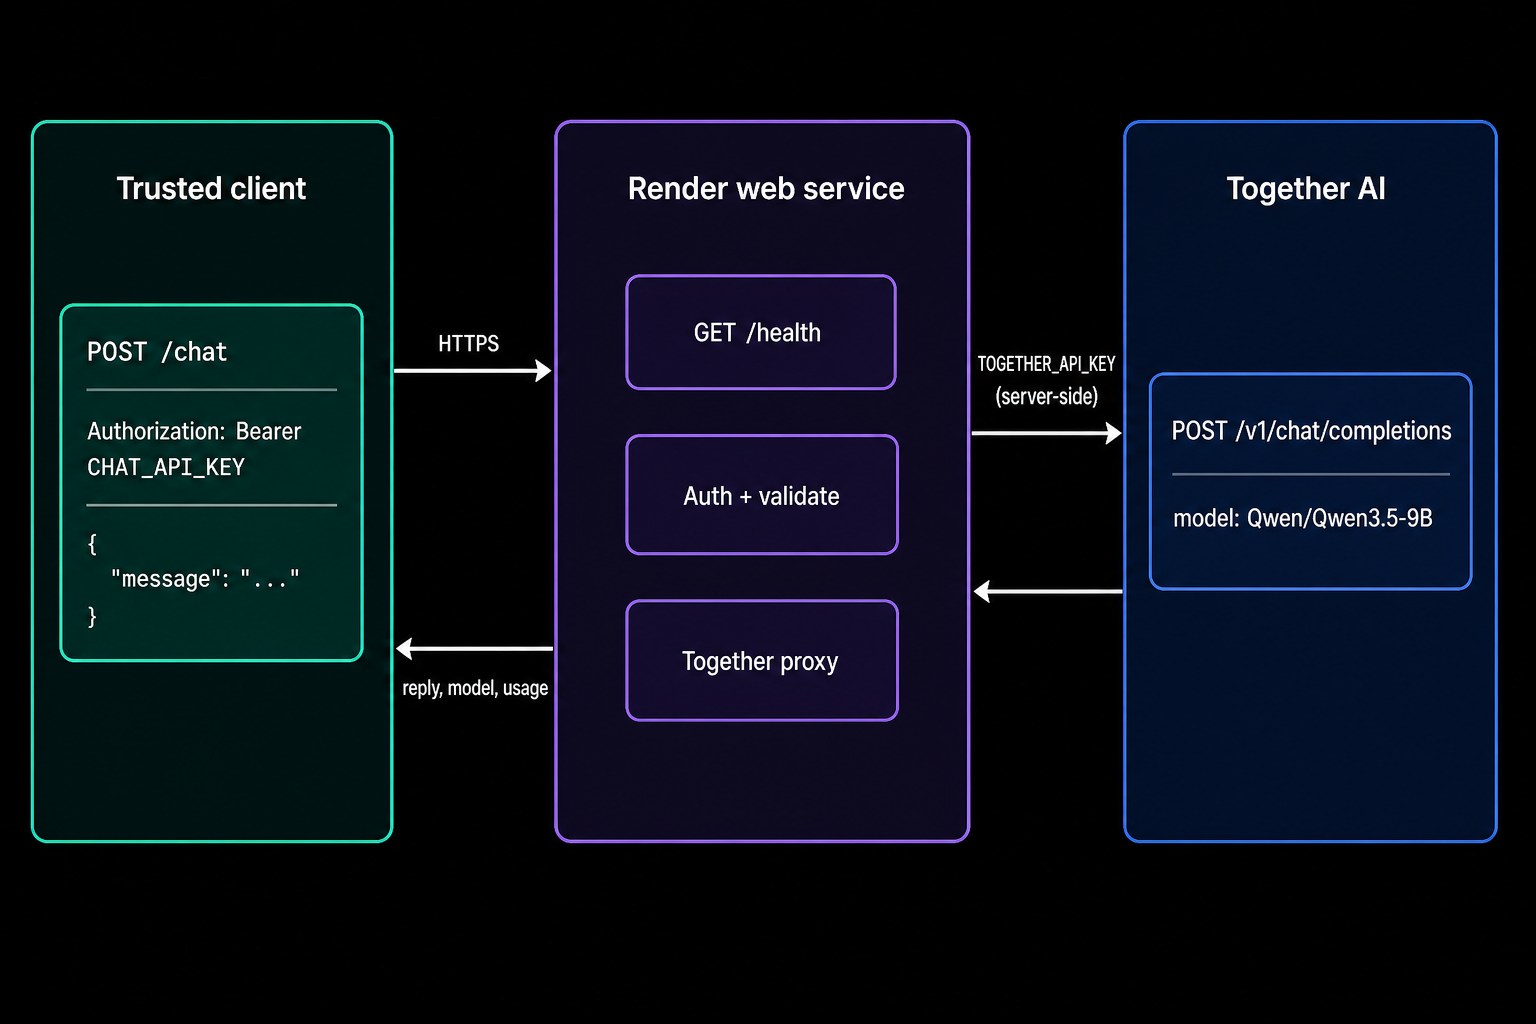
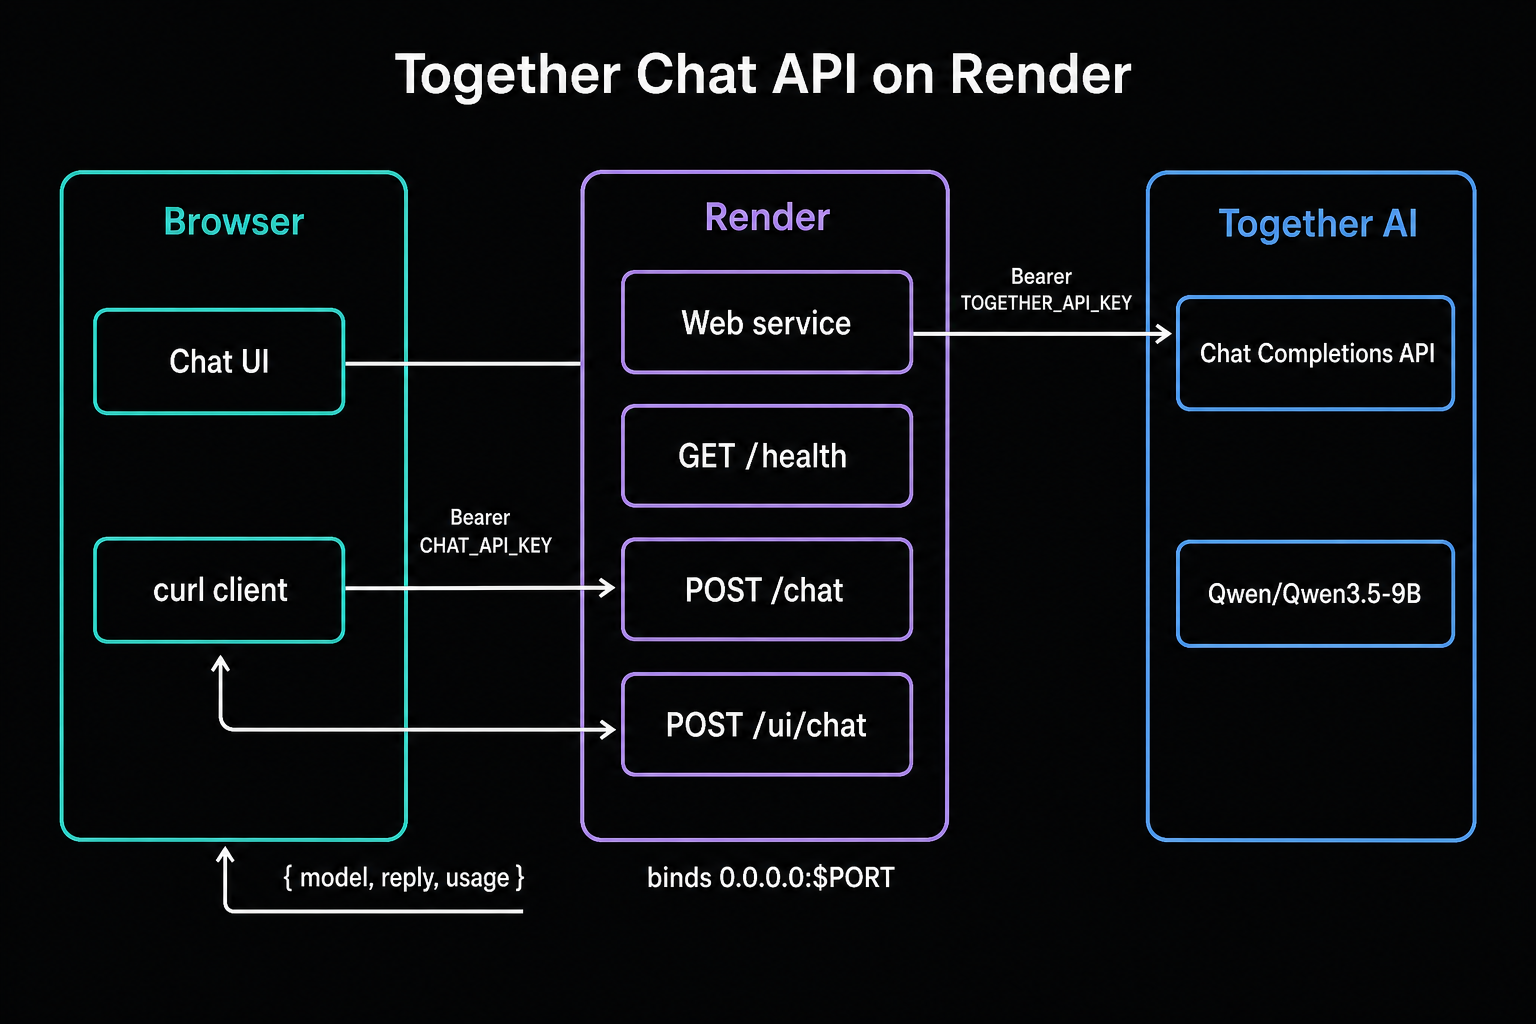
Rewrite the README to match the LlamaIndex demo hub layout.

diff --git a/README.md b/README.md
@@ -1,8 +1,8 @@
 <div align="center">
 
-# Together chat API on Render (Python)
+# Together Chat API
 
-Authenticated single-turn `POST /chat` backed by [Together AI](https://docs.together.ai/docs/render-chat-api), running as a Render web service. FastAPI forwards one user message to chat completions and returns the reply, model ID, and token usage. The landing page keeps a browser-side thread and sends it to `POST /ui/chat`. That extra route exists so the browser never sees `CHAT_API_KEY`, which the [Together guide](https://docs.together.ai/docs/render-chat-api) says not to embed in client code.
+An authenticated chat API on **Render**, backed by **Together AI** chat completions. FastAPI accepts a bearer token and a message, calls Together, and returns the reply, model ID, and token usage.
 
 <p>
   <a href="https://render.com/deploy?repo=https://github.com/ojusave/together-render-chat-python">
@@ -17,57 +17,107 @@ Authenticated single-turn `POST /chat` backed by [Together AI](https://docs.toge
   <a href="https://docs.together.ai/docs/render-chat-api">
     <img src="https://img.shields.io/badge/Together-Chat%20API-0f6fff" alt="Together AI" />
   </a>
-  <a href="https://github.com/ojusave/together-render-chat-ts">
-    <img src="https://img.shields.io/badge/TypeScript-Express%20sibling-3178C6?logo=typescript&logoColor=white" alt="TypeScript sibling" />
+  <a href="https://discord.gg/gvC7ceS9YS">
+    <img src="https://img.shields.io/badge/Discord-Render%20Developers-5865F2?logo=discord&logoColor=white" alt="Discord" />
+  </a>
+  <a href="https://discord.gg/9Rk6sSeWEG">
+    <img src="https://img.shields.io/badge/Discord-Together%20AI-5865F2?logo=discord&logoColor=white" alt="Together AI Discord" />
   </a>
 </p>
 
 </div>
 
-## What This Template Shows
+## What This Demo Shows
 
-The Blueprint is the Python path from Together's [Build a chat API on Render](https://docs.together.ai/docs/render-chat-api) guide, flattened into its own repo so the Deploy button can point at a single `render.yaml`.
+This repo is the Python path from Together's [Build a chat API on Render](https://docs.together.ai/docs/render-chat-api) guide:
 
-| Piece | Role |
+| Platform | Role |
 | --- | --- |
-| **[Together AI chat completions](https://docs.together.ai/docs/inference/chat/overview)** | Server-side inference with `TOGETHER_API_KEY` |
-| **[Render web service](https://render.com/docs/web-services)** | Public HTTPS, health checks, `0.0.0.0:$PORT` |
-| **`CHAT_API_KEY`** | Separate bearer token for callers of `POST /chat` |
+| **[Render Web Services](https://render.com/docs/web-services)** | Hosts the FastAPI app, health checks, and landing page on `0.0.0.0:$PORT` |
+| **[Together AI](https://docs.together.ai/docs/inference/chat/overview)** | Runs chat completions with `TOGETHER_API_KEY` (default `Qwen/Qwen3.5-9B`) |
+| **`CHAT_API_KEY`** | Separate bearer token for `POST /chat`, so the Together key never leaves the server |
+
+TypeScript sibling: [together-render-chat-ts](https://github.com/ojusave/together-render-chat-ts).
 
 ## Architecture
 
-![Architecture diagram](static/images/architecture-diagram.png)
+![Architecture](static/images/architecture-diagram.png)
 
 ![Pipeline flow](static/images/pipeline-flow.png)
 
 ### How It Works
 
-1. A trusted client sends `Authorization: Bearer $CHAT_API_KEY` and `{"message":"..."}` to `POST /chat`.
-2. The service rejects missing or oversized messages before it spends Together credits.
-3. It calls `https://api.together.ai/v1/chat/completions` with a 60 second timeout.
-4. It returns `{ model, reply, usage }` or an explicit 401 / 400 / 502 / 504.
+1. **Browser** talks to `POST /ui/chat` with the thread. A trusted API client talks to `POST /chat` with `Authorization: Bearer $CHAT_API_KEY`.
+2. **FastAPI** on Render validates the body before it spends Together credits.
+3. The service calls `https://api.together.ai/v1/chat/completions` and waits up to 60 seconds.
+4. It returns `{ model, reply, usage }`, or an explicit 401 / 400 / 502 / 504.
 
-| Resource | Type | Plan | Notes |
-| --- | --- | --- | --- |
-| `together-chat-python` | Web service | Starter | Always-on paid instance |
+| Route | Together call | What it does |
+| --- | --- | --- |
+| `GET /health` | — | Unauthenticated probe for Render |
+| `POST /chat` | One user message | Documented API: bearer `CHAT_API_KEY` required |
+| `POST /ui/chat` | Last 40 thread turns | Landing-page helper so the browser never sees `CHAT_API_KEY` |
 
-Default region: **Oregon** unless you change it in the Dashboard. This service stores no chat history.
+The service stores no chat history. The browser keeps the thread in memory.
 
 ## Quick Start
 
 ### Prerequisites
 
-- A [Render account](https://dashboard.render.com/register?utm_source=github&utm_medium=referral&utm_campaign=ojus_demos&utm_content=readme_link)
-- A [Together AI](https://api.together.ai/) account with an active credit balance and a project API key
-- A caller secret: `openssl rand -hex 32` (this is `CHAT_API_KEY`, not the Together key)
+- [Render account](https://dashboard.render.com/register?utm_source=github&utm_medium=referral&utm_campaign=ojus_demos&utm_content=readme_link)
+- [Together AI account](https://api.together.ai/) with an active credit balance and a project API key
+- A caller secret: `openssl rand -hex 32` (this becomes `CHAT_API_KEY`, not the Together key)
 
 ### Deploy
 
-1. Click **Deploy to Render** above.
-2. Paste `TOGETHER_API_KEY` and `CHAT_API_KEY` when Render prompts for secrets.
-3. Wait until the service is **Live** (about 2 to 4 minutes on first build).
-4. Open the service URL. The page chats using the Together key already on the service.
-5. For the HTTP API, send `Authorization: Bearer $CHAT_API_KEY` to `POST /chat`.
+1. Click **Deploy to Render** above
+2. You'll be prompted for:
+   - `TOGETHER_API_KEY` — [Get one here](https://api.together.ai/)
+   - `CHAT_API_KEY` — the hex secret you generated
+3. Wait until the service is **Live**
+4. Open the web service URL and send a message in the page
+
+## Features
+
+| Feature | Description |
+| --- | --- |
+| **Authenticated chat** | `POST /chat` compares the bearer token with `secrets.compare_digest` |
+| **Browser thread** | The landing page sends conversation history to `POST /ui/chat` |
+| **Public health check** | `GET /health` is unauthenticated so Render can probe it |
+| **Upstream mapping** | Together failures become 502; 60s timeouts become 504 |
+| **Swap the model** | Change `TOGETHER_MODEL` in the Dashboard and redeploy |
+
+## Configuration
+
+| Variable | Where | Description |
+| --- | --- | --- |
+| `TOGETHER_API_KEY` | Web service | [Together project API key](https://api.together.ai/) |
+| `CHAT_API_KEY` | Web service | Bearer token for `POST /chat` |
+| `TOGETHER_MODEL` | Web service | Defaults to `Qwen/Qwen3.5-9B` |
+| `PYTHON_VERSION` | Web service | Blueprint pins `3.14.3` |
+| `PORT` | Web service | Set by Render; uvicorn binds `0.0.0.0:$PORT` |
+
+> [!WARNING]
+> Do not embed `CHAT_API_KEY` in browser or mobile app code. The shared token is a server-to-server guard for this demo. The landing page uses `POST /ui/chat` for that reason.
+
+## Project Structure
+
+```
+main.py           FastAPI health + chat handler
+public/           Landing page (Deploy / Sign up / chat UI)
+static/images/    Architecture diagrams
+render.yaml       Render Blueprint
+requirements.txt  FastAPI, uvicorn, httpx
+```
+
+## API Routes
+
+| Method | Path | Description |
+| --- | --- | --- |
+| `GET` | `/` | Landing page |
+| `GET` | `/health` | `{ ok, model }` |
+| `POST` | `/chat` | Single-turn chat. Requires `Authorization: Bearer $CHAT_API_KEY` and `{"message":"..."}` |
+| `POST` | `/ui/chat` | Multi-turn helper for the page. Body is `{"messages":[{"role","content"}, ...]}` |
 
 ```bash
 export SERVICE_URL="https://together-chat-python-xxxx.onrender.com"
@@ -85,36 +135,6 @@ curl -X POST "$SERVICE_URL/chat" \
 unset CHAT_API_KEY
 ```
 
-Do not embed `CHAT_API_KEY` in browser or mobile app code. The shared token is a server-to-server guard for this demo.
-
-## Features
-
-| Feature | Description |
-| --- | --- |
-| **Authenticated chat** | `POST /chat` compares the bearer token with `secrets.compare_digest` |
-| **Public health check** | `GET /health` is unauthenticated so Render can probe it |
-| **Upstream mapping** | Together failures become 502; 60s timeouts become 504 |
-| **Swap the model** | Change `TOGETHER_MODEL` in the Dashboard and redeploy |
-
-## Configuration
-
-| Variable | Source | Description |
-| --- | --- | --- |
-| `TOGETHER_API_KEY` | Required | Project-scoped Together API key |
-| `CHAT_API_KEY` | Required | Bearer token callers use against this service |
-| `TOGETHER_MODEL` | Optional | Defaults to `Qwen/Qwen3.5-9B` |
-| `PYTHON_VERSION` | Optional | Blueprint pins `3.14.3` |
-| `PORT` | Wired | Set by Render; uvicorn binds `0.0.0.0:$PORT` |
-
-## Cost
-
-| Resource | Approx. monthly |
-| --- | ---: |
-| Web service (Starter) | ~$7 |
-| Together inference | Billed by Together |
-
-Starter stays up. Together usage is separate from Render hosting.
-
 ## Troubleshooting
 
 | Problem | Solution |
@@ -123,30 +143,19 @@ Starter stays up. Together usage is separate from Render hosting.
 | Health check fails | Confirm uvicorn listens on `0.0.0.0` and `$PORT`, and that both secrets are set so the process can start. |
 | `401` on `/chat` | Send `Authorization: Bearer` plus the same `CHAT_API_KEY` value stored on the service. |
 | `502` with `upstream_status` | Together rejected the call. Check the key, model ID, and Together credit balance. |
-| Slow first request | Confirm the service is Live and that `TOGETHER_API_KEY` is set. |
-
-## Project Structure
-
-```
-render.yaml       Render Blueprint
-main.py           FastAPI health + chat handler
-public/           Landing page (Deploy / Sign up / tester)
-static/images/    Architecture diagrams
-requirements.txt  FastAPI, uvicorn, httpx
-```
+| Follow-ups forget earlier turns | Use the landing page (`POST /ui/chat`). Documented `POST /chat` is single-turn. |
 
 ## Learn More
 
 **Render:**
-- [Web services](https://render.com/docs/web-services)
+- [Render Web Services](https://render.com/docs/web-services)
 - [Deploy to Render button](https://render.com/docs/deploy-to-render-button)
-- [Free plan limits](https://render.com/docs/free)
+- [Render Developers Discord](https://discord.gg/gvC7ceS9YS)
 
-**Upstream:**
+**Together AI:**
 - [Build a chat API on Render](https://docs.together.ai/docs/render-chat-api)
 - [Chat completions](https://docs.together.ai/docs/inference/chat/overview)
-
-TypeScript sibling: [together-render-chat-ts](https://github.com/ojusave/together-render-chat-ts).
+- [Together AI Discord](https://discord.gg/9Rk6sSeWEG)
 
 ## License
 
